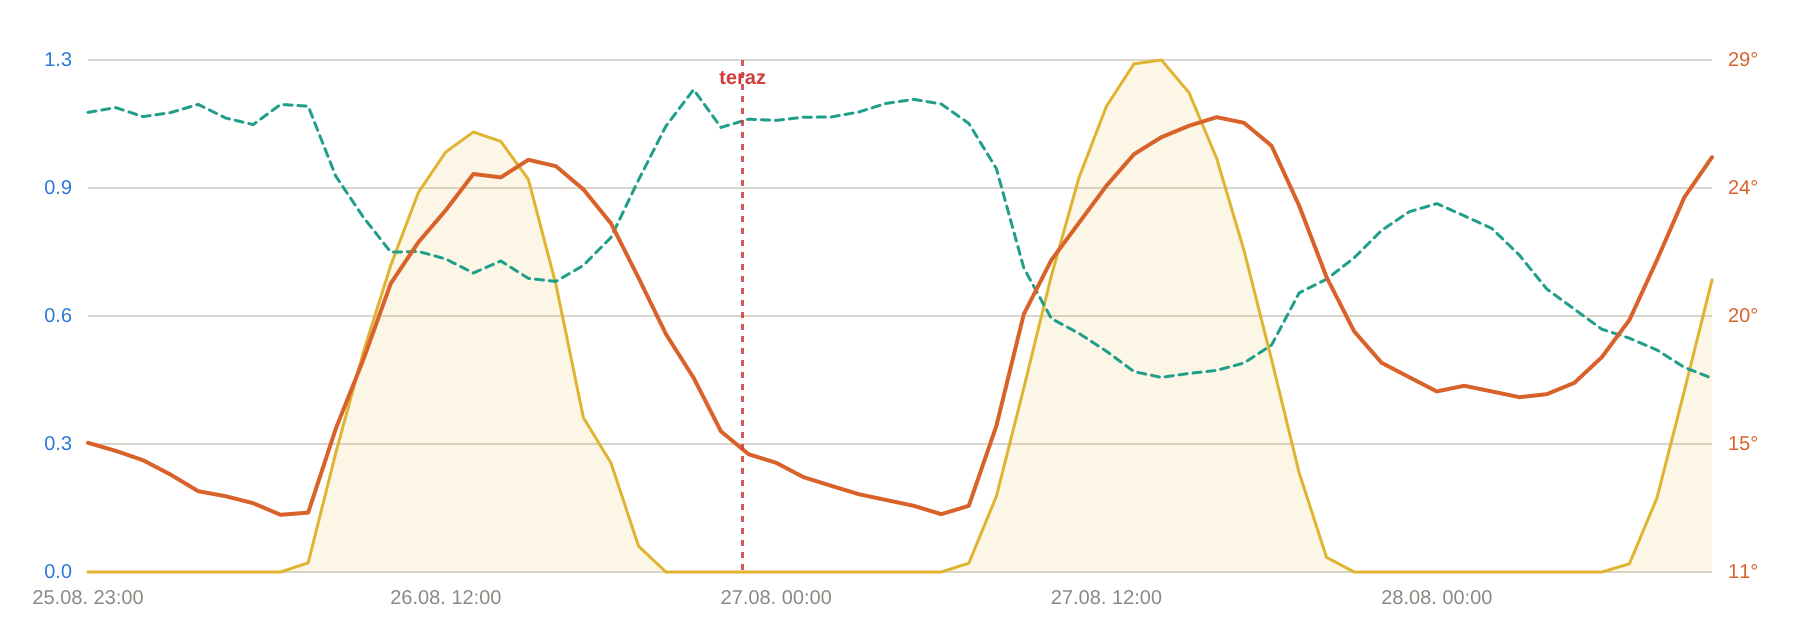
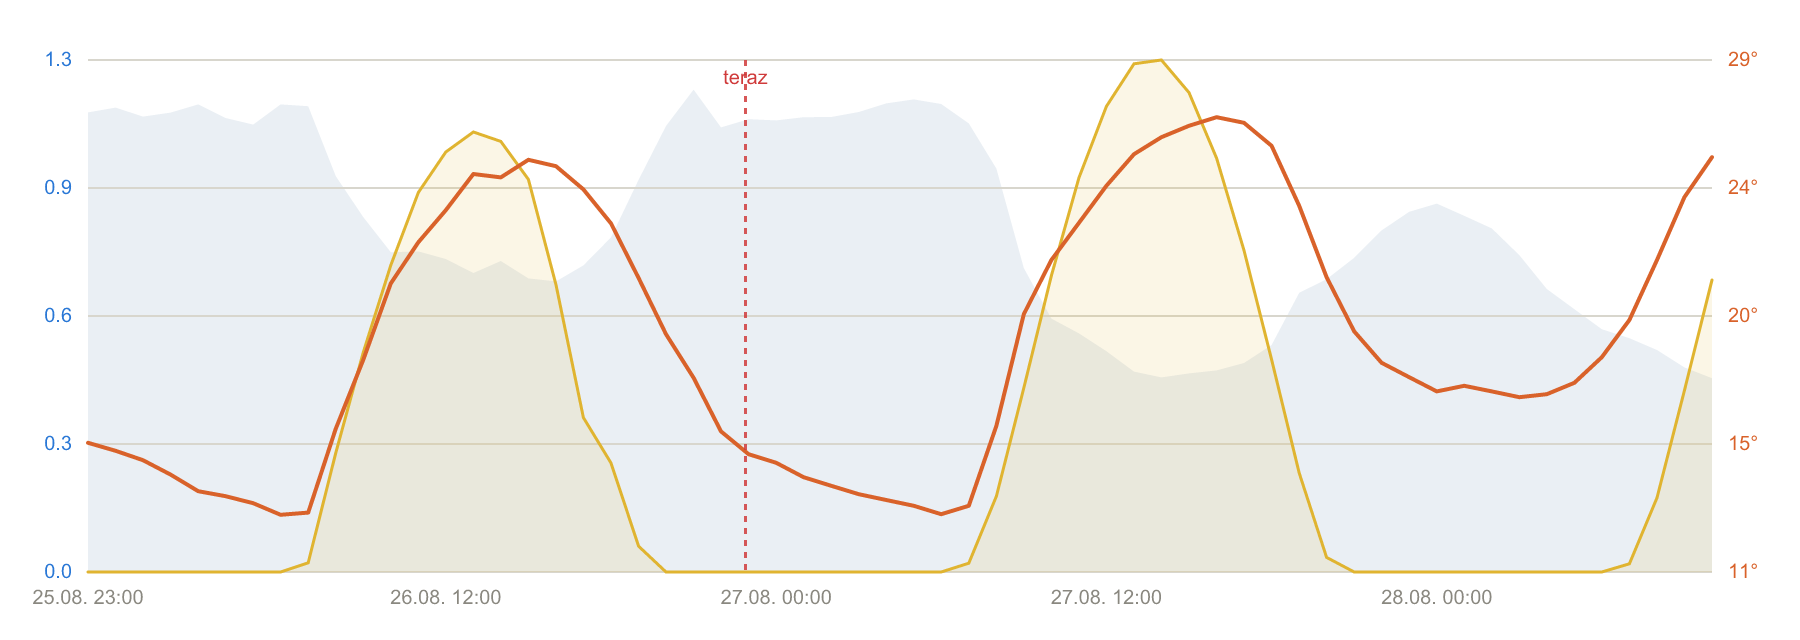
fix: render humidity as a background wash instead of a line
Humidity's teal dashed line and precipitation's blue bars read as too
similar/cluttered side by side. Humidity is now a soft, low-opacity
powder-blue area drawn behind everything else, so it hints at context
without competing visually with the other series.

diff --git a/docs/index.html b/docs/index.html
@@ -19,7 +19,7 @@
     --series-precip: #2a78d6;
     --series-temp: #d9622a;
     --series-radiation: #e0b430;
-    --series-humidity: #1f9e89;
+    --series-humidity: #9fb7cc;
   }
   @media (prefers-color-scheme: dark) {
     :root {
@@ -36,7 +36,7 @@
       --series-precip: #5b9be0;
       --series-temp: #e58a54;
       --series-radiation: #e0b430;
-      --series-humidity: #3fc2ab;
+      --series-humidity: #7f96a8;
     }
   }
   * { box-sizing: border-box; }
@@ -92,7 +92,7 @@
 <body>
   <div class="wrap">
     <h1>Zedlitzdorf 74 – predpoveď počasia</h1>
-    <p class="muted">Zedlitzdorf 74, Gnesau (Feldkirchen, Kärnten, Rakúsko) &middot; vygenerované 26.08.2026 22:46</p>
+    <p class="muted">Zedlitzdorf 74, Gnesau (Feldkirchen, Kärnten, Rakúsko) &middot; vygenerované 26.08.2026 22:52</p>
     <section class="card">
       
     <div class="legend">
@@ -105,6 +105,7 @@
       
     <svg xmlns="http://www.w3.org/2000/svg" viewBox="0 0 900 320" width="900" height="320" class="chart-svg" role="img" aria-label="Graf predpovede počasia">
       
+      <path d="M 44.0 56.2 L 57.8 53.8 L 71.5 58.3 L 85.3 56.3 L 99.1 52.2 L 112.8 59.0 L 126.6 62.3 L 140.3 52.2 L 154.1 53.1 L 167.9 88.1 L 181.6 108.5 L 195.4 126.1 L 209.2 125.7 L 222.9 129.5 L 236.7 136.5 L 250.4 130.5 L 264.2 139.2 L 278.0 140.7 L 291.7 132.7 L 305.5 118.7 L 319.3 89.9 L 333.0 63.0 L 346.8 44.8 L 360.5 63.7 L 374.3 59.6 L 388.1 60.2 L 401.8 58.6 L 415.6 58.5 L 429.4 56.0 L 443.1 51.7 L 456.9 49.7 L 470.6 52.0 L 484.4 61.7 L 498.2 84.3 L 511.9 134.0 L 525.7 159.3 L 539.5 166.7 L 553.2 175.6 L 567.0 185.8 L 580.7 188.7 L 594.5 186.7 L 608.3 185.2 L 622.0 181.5 L 635.8 172.5 L 649.6 146.4 L 663.3 139.6 L 677.1 128.9 L 690.8 115.2 L 704.6 105.9 L 718.4 101.8 L 732.1 107.9 L 745.9 114.2 L 759.7 127.6 L 773.4 144.5 L 787.2 154.6 L 800.9 164.6 L 814.7 169.1 L 828.5 175.0 L 842.2 183.7 L 856.0 189.1 L 856.0 286 L 44.0 286 Z" style="fill:#9fb7cc;opacity:0.22" />
       
         <line x1="44" y1="286.0" x2="856" y2="286.0" style="stroke:#d8d6cd;stroke-width:1" />
         <text x="36" y="289.0" style="fill:#2a78d6;font-size:10px" text-anchor="end">0.0</text>
@@ -125,12 +126,11 @@
       <path d="M 44.0 286.0 L 57.8 286.0 L 71.5 286.0 L 85.3 286.0 L 99.1 286.0 L 112.8 286.0 L 126.6 286.0 L 140.3 286.0 L 154.1 281.4 L 167.9 226.4 L 181.6 176.3 L 195.4 132.6 L 209.2 96.2 L 222.9 76.0 L 236.7 66.0 L 250.4 70.7 L 264.2 89.7 L 278.0 142.4 L 291.7 208.8 L 305.5 231.5 L 319.3 273.1 L 333.0 286.0 L 346.8 286.0 L 360.5 286.0 L 374.3 286.0 L 388.1 286.0 L 401.8 286.0 L 415.6 286.0 L 429.4 286.0 L 443.1 286.0 L 456.9 286.0 L 470.6 286.0 L 484.4 281.6 L 498.2 248.1 L 511.9 194.0 L 525.7 137.8 L 539.5 88.8 L 553.2 53.2 L 567.0 31.9 L 580.7 30.0 L 594.5 46.3 L 608.3 79.1 L 622.0 125.2 L 635.8 179.8 L 649.6 236.5 L 663.3 278.7 L 677.1 286.0 L 690.8 286.0 L 704.6 286.0 L 718.4 286.0 L 732.1 286.0 L 745.9 286.0 L 759.7 286.0 L 773.4 286.0 L 787.2 286.0 L 800.9 286.0 L 814.7 281.9 L 828.5 248.9 L 842.2 195.3 L 856.0 140.0 L 856.0 286 L 44.0 286 Z" style="fill:#e0b430;opacity:0.12" />
       
       <path d="M 44.0 286.0 L 57.8 286.0 L 71.5 286.0 L 85.3 286.0 L 99.1 286.0 L 112.8 286.0 L 126.6 286.0 L 140.3 286.0 L 154.1 281.4 L 167.9 226.4 L 181.6 176.3 L 195.4 132.6 L 209.2 96.2 L 222.9 76.0 L 236.7 66.0 L 250.4 70.7 L 264.2 89.7 L 278.0 142.4 L 291.7 208.8 L 305.5 231.5 L 319.3 273.1 L 333.0 286.0 L 346.8 286.0 L 360.5 286.0 L 374.3 286.0 L 388.1 286.0 L 401.8 286.0 L 415.6 286.0 L 429.4 286.0 L 443.1 286.0 L 456.9 286.0 L 470.6 286.0 L 484.4 281.6 L 498.2 248.1 L 511.9 194.0 L 525.7 137.8 L 539.5 88.8 L 553.2 53.2 L 567.0 31.9 L 580.7 30.0 L 594.5 46.3 L 608.3 79.1 L 622.0 125.2 L 635.8 179.8 L 649.6 236.5 L 663.3 278.7 L 677.1 286.0 L 690.8 286.0 L 704.6 286.0 L 718.4 286.0 L 732.1 286.0 L 745.9 286.0 L 759.7 286.0 L 773.4 286.0 L 787.2 286.0 L 800.9 286.0 L 814.7 281.9 L 828.5 248.9 L 842.2 195.3 L 856.0 140.0" style="fill:none;stroke:#e0b430;stroke-width:1.5;stroke-linecap:round" />
-      <path d="M 44.0 56.2 L 57.8 53.8 L 71.5 58.3 L 85.3 56.3 L 99.1 52.2 L 112.8 59.0 L 126.6 62.3 L 140.3 52.2 L 154.1 53.1 L 167.9 88.1 L 181.6 108.5 L 195.4 126.1 L 209.2 125.7 L 222.9 129.5 L 236.7 136.5 L 250.4 130.5 L 264.2 139.2 L 278.0 140.7 L 291.7 132.7 L 305.5 118.7 L 319.3 89.9 L 333.0 63.0 L 346.8 44.8 L 360.5 63.7 L 374.3 59.6 L 388.1 60.2 L 401.8 58.6 L 415.6 58.5 L 429.4 56.0 L 443.1 51.7 L 456.9 49.7 L 470.6 52.0 L 484.4 61.7 L 498.2 84.3 L 511.9 134.0 L 525.7 159.3 L 539.5 166.7 L 553.2 175.6 L 567.0 185.8 L 580.7 188.7 L 594.5 186.7 L 608.3 185.2 L 622.0 181.5 L 635.8 172.5 L 649.6 146.4 L 663.3 139.6 L 677.1 128.9 L 690.8 115.2 L 704.6 105.9 L 718.4 101.8 L 732.1 107.9 L 745.9 114.2 L 759.7 127.6 L 773.4 144.5 L 787.2 154.6 L 800.9 164.6 L 814.7 169.1 L 828.5 175.0 L 842.2 183.7 L 856.0 189.1" style="fill:none;stroke:#1f9e89;stroke-width:1.5;stroke-dasharray:4 3;stroke-linecap:round" />
       <path d="M 44.0 221.4 L 57.8 225.4 L 71.5 230.1 L 85.3 237.3 L 99.1 245.6 L 112.8 248.1 L 126.6 251.6 L 140.3 257.4 L 154.1 256.3 L 167.9 214.3 L 181.6 180.0 L 195.4 141.7 L 209.2 121.1 L 222.9 105.1 L 236.7 87.0 L 250.4 88.7 L 264.2 79.9 L 278.0 83.1 L 291.7 94.7 L 305.5 111.7 L 319.3 139.0 L 333.0 167.1 L 346.8 188.9 L 360.5 215.7 L 374.3 227.1 L 388.1 231.4 L 401.8 238.6 L 415.6 242.9 L 429.4 247.1 L 443.1 250.0 L 456.9 252.9 L 470.6 257.1 L 484.4 252.9 L 498.2 212.9 L 511.9 157.1 L 525.7 130.0 L 539.5 111.4 L 553.2 92.9 L 567.0 77.1 L 580.7 68.6 L 594.5 62.9 L 608.3 58.6 L 622.0 61.4 L 635.8 72.9 L 649.6 102.9 L 663.3 138.6 L 677.1 165.7 L 690.8 181.4 L 704.6 188.6 L 718.4 195.7 L 732.1 192.9 L 745.9 195.7 L 759.7 198.6 L 773.4 197.1 L 787.2 191.4 L 800.9 178.6 L 814.7 160.0 L 828.5 130.0 L 842.2 98.6 L 856.0 78.6" style="fill:none;stroke:#d9622a;stroke-width:2;stroke-linecap:round;stroke-linejoin:round" />
       <text x="864" y="289.0" style="fill:#d9622a;font-size:10px" text-anchor="start">11°</text><text x="864" y="225.0" style="fill:#d9622a;font-size:10px" text-anchor="start">15°</text><text x="864" y="161.0" style="fill:#d9622a;font-size:10px" text-anchor="start">20°</text><text x="864" y="97.0" style="fill:#d9622a;font-size:10px" text-anchor="start">24°</text><text x="864" y="33.0" style="fill:#d9622a;font-size:10px" text-anchor="start">29°</text>
       
-    <line x1="371.3" y1="30" x2="371.3" y2="286" style="stroke:#d03b3b;stroke-width:1.5;stroke-dasharray:3 3;opacity:0.85" />
-    <text x="371.3" y="42" style="fill:#d03b3b;font-size:10px;font-weight:600" text-anchor="middle">teraz</text>
+    <line x1="372.7" y1="30" x2="372.7" y2="286" style="stroke:#d03b3b;stroke-width:1.5;stroke-dasharray:3 3;opacity:0.85" />
+    <text x="372.7" y="42" style="fill:#d03b3b;font-size:10px;font-weight:600" text-anchor="middle">teraz</text>
   
       
       <line class="crosshair" x1="0" y1="30" x2="0" y2="286" data-chart="weather" />

diff --git a/src/dashboard.ts b/src/dashboard.ts
@@ -9,7 +9,10 @@ const PALETTE = {
   precip: "#2a78d6",
   temp: "#d9622a",
   radiation: "#e0b430",
-  humidity: "#1f9e89",
+  /** Deliberately a muted, desaturated powder-blue (not the vivid precip blue, and no longer
+   * a line at all) - humidity is meant to read as a faint ambient wash behind the other series,
+   * never as a competing foreground line the eye can confuse with precipitation. */
+  humidity: "#9fb7cc",
   gridline: "#d8d6cd",
   axis: "#8a8880",
   critical: "#d03b3b",
@@ -154,12 +157,16 @@ export function buildWeatherChart(
     ? `<path d="${tempPath}" style="fill:none;stroke:${PALETTE.temp};stroke-width:2;stroke-linecap:round;stroke-linejoin:round" />`
     : "";
 
+  // Humidity is rendered as a soft filled wash down to the plot floor, not a line - drawn first
+  // (furthest back, behind gridlines/bars/other series) so it reads as faint background context
+  // rather than a fourth foreground series competing for attention with precipitation.
   const humidityPath = points
     .filter((p) => p.humidityPct !== null)
     .map((p, i) => `${i === 0 ? "M" : "L"} ${xScale(p.ms).toFixed(1)} ${yHumidity(p.humidityPct!).toFixed(1)}`)
     .join(" ");
-  const humidityLine = humidityPath
-    ? `<path d="${humidityPath}" style="fill:none;stroke:${PALETTE.humidity};stroke-width:1.5;stroke-dasharray:4 3;stroke-linecap:round" />`
+  const humidityFloorY = MARGIN.top + PLOT_H;
+  const humidityArea = humidityPath
+    ? `<path d="${humidityPath} L ${xScale(points[points.length - 1].ms).toFixed(1)} ${humidityFloorY} L ${xScale(points[0].ms).toFixed(1)} ${humidityFloorY} Z" style="fill:${PALETTE.humidity};opacity:0.22" />`
     : "";
 
   const precipTicks = niceTicks(0, precipMax, 4);
@@ -221,12 +228,12 @@ export function buildWeatherChart(
   const svg = `
     <svg xmlns="http://www.w3.org/2000/svg" viewBox="0 0 ${CHART_WIDTH} ${CHART_HEIGHT}" width="${CHART_WIDTH}" height="${CHART_HEIGHT}" class="chart-svg" role="img" aria-label="Graf predpovede počasia">
       ${background}
+      ${humidityArea}
       ${precipGrid}
       ${xLabels.join("")}
       ${radiationArea}
       ${bars}
       ${radiationLine}
-      ${humidityLine}
       ${tempLine}
       ${tempAxis}
       ${nowMarker}
@@ -413,7 +420,7 @@ export function renderDashboardHtml(points: WeatherPoint[], generatedAt: Date): 
     --series-precip: #2a78d6;
     --series-temp: #d9622a;
     --series-radiation: #e0b430;
-    --series-humidity: #1f9e89;
+    --series-humidity: #9fb7cc;
   }
   @media (prefers-color-scheme: dark) {
     :root {
@@ -430,7 +437,7 @@ export function renderDashboardHtml(points: WeatherPoint[], generatedAt: Date): 
       --series-precip: #5b9be0;
       --series-temp: #e58a54;
       --series-radiation: #e0b430;
-      --series-humidity: #3fc2ab;
+      --series-humidity: #7f96a8;
     }
   }
   * { box-sizing: border-box; }

diff --git a/src/email.ts b/src/email.ts
@@ -70,7 +70,7 @@ export function renderAlertEmail(points: WeatherPoint[], generatedAt: Date): { s
             &nbsp;&nbsp;
             <span style="display:inline-block;width:10px;height:10px;border-radius:3px;background:#e0b430;margin-right:5px;"></span>Slnečné žiarenie (W/m²)
             &nbsp;&nbsp;
-            <span style="display:inline-block;width:10px;height:10px;border-radius:3px;background:#1f9e89;margin-right:5px;"></span>Vlhkosť (%)
+            <span style="display:inline-block;width:10px;height:10px;border-radius:3px;background:#9fb7cc;margin-right:5px;"></span>Vlhkosť (%)
           </div>
 
           <img src="${chartImgSrc}" width="${CHART_WIDTH}" alt="Graf predpovede počasia: zrážky, teplota, slnečné žiarenie, vlhkosť" style="width:100%;max-width:${CHART_WIDTH}px;height:auto;display:block;border-radius:8px;border:1px solid ${BORDER};" />
